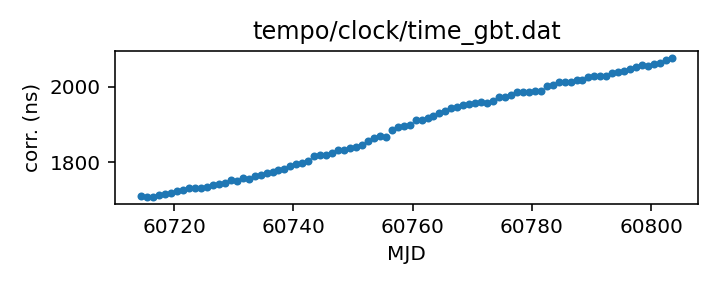
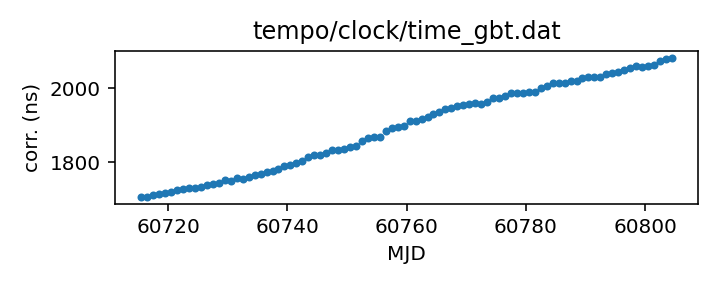
Routine gh-pages update from Github action Sat May 10 20:38:20 UTC 2025

diff --git a/status.md b/status.md
@@ -13,18 +13,18 @@ name of each clock file links to a page with more details.
 
 | Name | File | Corrections start | Corrections end | Last check date | Last check result 
 |:--- |:--- | --- | --- | --- |:--- 
-| [GPS to UTC](T2runtime/clock/gps2utc.clk.html) | `T2runtime/clock/gps2utc.clk` | 1993-01-01 MJD 48988.0 | 2025-03-30 MJD 60764.0 | 2025-05-09 | Unchanged 
-| [GPS to UTC (Combined Clock)](T2runtime/clock/gps2utc_cc.clk.html) | `T2runtime/clock/gps2utc_cc.clk` | 1993-01-01 MJD 48988.0 | 2025-03-30 MJD 60764.0 | 2025-05-09 | Unchanged 
-| [GPS to UTC (Corrected)](T2runtime/clock/gps2utc_c0p.clk.html) | `T2runtime/clock/gps2utc_c0p.clk` | 2010-12-29 MJD 55559.0 | 2025-03-30 MJD 60764.0 | 2025-05-09 | Unchanged 
-| [GBT](tempo/clock/time_gbt.dat.html) | `tempo/clock/time_gbt.dat` | 2000-12-31 MJD 51909.5 | 2025-05-08 MJD 60803.5 | 2025-05-09 | Updated 
-| [GBT (TEMPO2 converted from TEMPO)](T2runtime/clock/gbt2gps.clk.html) | `T2runtime/clock/gbt2gps.clk` | 2000-12-31 MJD 51909.5 | 2024-05-18 MJD 60448.5 | 2025-05-09 | **Validation failed** 
+| [GPS to UTC](T2runtime/clock/gps2utc.clk.html) | `T2runtime/clock/gps2utc.clk` | 1993-01-01 MJD 48988.0 | 2025-03-30 MJD 60764.0 | 2025-05-10 | Unchanged 
+| [GPS to UTC (Combined Clock)](T2runtime/clock/gps2utc_cc.clk.html) | `T2runtime/clock/gps2utc_cc.clk` | 1993-01-01 MJD 48988.0 | 2025-03-30 MJD 60764.0 | 2025-05-10 | Unchanged 
+| [GPS to UTC (Corrected)](T2runtime/clock/gps2utc_c0p.clk.html) | `T2runtime/clock/gps2utc_c0p.clk` | 2010-12-29 MJD 55559.0 | 2025-03-30 MJD 60764.0 | 2025-05-10 | Unchanged 
+| [GBT](tempo/clock/time_gbt.dat.html) | `tempo/clock/time_gbt.dat` | 2000-12-31 MJD 51909.5 | 2025-05-09 MJD 60804.5 | 2025-05-10 | Updated 
+| [GBT (TEMPO2 converted from TEMPO)](T2runtime/clock/gbt2gps.clk.html) | `T2runtime/clock/gbt2gps.clk` | 2000-12-31 MJD 51909.5 | 2024-05-18 MJD 60448.5 | 2025-05-10 | **Validation failed** 
 | [Jodrell Bank](T2runtime/clock/jb2gps.clk.html) | `T2runtime/clock/jb2gps.clk` | 2006-10-13 MJD 54021.4 | 2024-11-07 MJD 60621.0 | 2025-05-05 | Unchanged 
 | [Jodrell Bank Roach](T2runtime/clock/jbroach2jb.clk.html) | `T2runtime/clock/jbroach2jb.clk` | 2006-10-13 MJD 54021.4 | 2018-03-20 MJD 58197.6 | 2025-05-05 | Unchanged 
 | [Jodrell Bank DFB](T2runtime/clock/jbdfb2jb.clk.html) | `T2runtime/clock/jbdfb2jb.clk` | 2006-10-13 MJD 54021.4 | 2021-02-22 MJD 59268.0 | 2025-05-05 | Unchanged 
 | [Meerkat (observatory)](T2runtime/clock/mk2utc_observatory.clk.html) | `T2runtime/clock/mk2utc_observatory.clk` | 2019-01-01 MJD 58484.0 | 2025-03-27 MJD 60762.0 | 2025-05-05 | Updated 
-| [Leap seconds](tempo/clock/leap.sec.html) | `tempo/clock/leap.sec` | 1972-07-01 MJD 41499.0 | 2017-01-01 MJD 57754.0 | 2025-05-09 | Unchanged 
-| [UT1 table](tempo/clock/ut1.dat.html) | `tempo/clock/ut1.dat` | 1973-01-02 MJD 41684.0 | 2026-05-16 MJD 61176.0 | 2025-05-09 | Unchanged 
-| [UT1 table](T2runtime/clock/ut1.dat.html) | `T2runtime/clock/ut1.dat` | 1973-01-02 MJD 41684.0 | 2026-05-16 MJD 61176.0 | 2025-05-09 | Unchanged 
+| [Leap seconds](tempo/clock/leap.sec.html) | `tempo/clock/leap.sec` | 1972-07-01 MJD 41499.0 | 2017-01-01 MJD 57754.0 | 2025-05-10 | Unchanged 
+| [UT1 table](tempo/clock/ut1.dat.html) | `tempo/clock/ut1.dat` | 1973-01-02 MJD 41684.0 | 2026-05-16 MJD 61176.0 | 2025-05-10 | Unchanged 
+| [UT1 table](T2runtime/clock/ut1.dat.html) | `T2runtime/clock/ut1.dat` | 1973-01-02 MJD 41684.0 | 2026-05-16 MJD 61176.0 | 2025-05-10 | Unchanged 
 
 
 

diff --git a/T2runtime/clock/gbt2gps.clk.md b/T2runtime/clock/gbt2gps.clk.md
@@ -25,12 +25,11 @@ If questions arise about the conversion, contact Anne Archibald
 | Clock file start | 2000-12-31 MJD 51909.5 |
 | Clock file end | 2024-05-18 MJD 60448.5 |
 | Update interval (days) | 1 |
-| Last update attempt | 2025-05-09 |
+| Last update attempt | 2025-05-10 |
 | Last update result | Validation failed |
 
 Log entries from the last few update attempts:
 ```
-2025-05-05 14:42:53.005 - Validation failed: New version of T2runtime/clock/gbt2gps.clk clock corrections differ from old version where they overlap in 11 places
 2025-05-05 18:22:59.479 - Validation failed: New version of T2runtime/clock/gbt2gps.clk clock corrections differ from old version where they overlap in 11 places
 2025-05-05 18:23:23.183 - Validation failed: New version of T2runtime/clock/gbt2gps.clk clock corrections differ from old version where they overlap in 11 places
 2025-05-05 18:37:58.969 - Validation failed: New version of T2runtime/clock/gbt2gps.clk clock corrections differ from old version where they overlap in 11 places
@@ -40,6 +39,7 @@ Log entries from the last few update attempts:
 2025-05-07 20:42:58.428 - Validation failed: New version of T2runtime/clock/gbt2gps.clk clock corrections differ from old version where they overlap in 11 places
 2025-05-08 20:42:41.728 - Validation failed: New version of T2runtime/clock/gbt2gps.clk clock corrections differ from old version where they overlap in 11 places
 2025-05-09 20:41:35.620 - Validation failed: New version of T2runtime/clock/gbt2gps.clk clock corrections differ from old version where they overlap in 11 places
+2025-05-10 20:37:57.337 - Validation failed: New version of T2runtime/clock/gbt2gps.clk clock corrections differ from old version where they overlap in 11 places
 ```
 [Full log](https://raw.githubusercontent.com/ipta/pulsar-clock-corrections/main/log/T2runtime/clock/gbt2gps.clk.log)
 

diff --git a/tempo/clock/time_gbt.dat.md b/tempo/clock/time_gbt.dat.md
@@ -36,14 +36,13 @@ If questions arise, contact Ryan S. Lynch <rlynch@nrao.edu>.
 | Format | tempo |
 | Bogus last correction | False |
 | Clock file start | 2000-12-31 MJD 51909.5 |
-| Clock file end | 2025-05-08 MJD 60803.5 |
+| Clock file end | 2025-05-09 MJD 60804.5 |
 | Update interval (days) | 1 |
-| Last update attempt | 2025-05-09 |
+| Last update attempt | 2025-05-10 |
 | Last update result | Updated |
 
 Log entries from the last few update attempts:
 ```
-2025-02-09 20:33:00.330 - Updated
 2025-02-10 20:36:31.721 - Updated
 2025-02-11 20:36:33.614 - Updated
 2025-02-12 20:36:25.432 - Updated
@@ -53,6 +52,7 @@ Log entries from the last few update attempts:
 2025-05-07 20:42:58.374 - Updated
 2025-05-08 20:42:41.675 - Updated
 2025-05-09 20:41:35.566 - Updated
+2025-05-10 20:37:57.284 - Updated
 ```
 [Full log](https://raw.githubusercontent.com/ipta/pulsar-clock-corrections/main/log/tempo/clock/time_gbt.dat.log)
 

diff --git a/T2runtime/clock/gps2utc_c0p.clk.md b/T2runtime/clock/gps2utc_c0p.clk.md
@@ -30,12 +30,11 @@ about the BIPM's published corrections, contact <tai@bipm.org>.
 | Clock file start | 2010-12-29 MJD 55559.0 |
 | Clock file end | 2025-03-30 MJD 60764.0 |
 | Update interval (days) | 1 |
-| Last update attempt | 2025-05-09 |
+| Last update attempt | 2025-05-10 |
 | Last update result | Unchanged |
 
 Log entries from the last few update attempts:
 ```
-2025-02-09 20:33:00.115 - Unchanged
 2025-02-10 20:36:30.708 - Unchanged
 2025-02-11 20:36:32.738 - Unchanged
 2025-02-12 20:36:24.907 - Updated
@@ -45,6 +44,7 @@ Log entries from the last few update attempts:
 2025-05-07 20:42:57.548 - Unchanged
 2025-05-08 20:42:41.267 - Unchanged
 2025-05-09 20:41:35.212 - Unchanged
+2025-05-10 20:37:53.239 - Unchanged
 ```
 [Full log](https://raw.githubusercontent.com/ipta/pulsar-clock-corrections/main/log/T2runtime/clock/gps2utc_c0p.clk.log)
 

diff --git a/T2runtime/clock/gps2utc_cc.clk.md b/T2runtime/clock/gps2utc_cc.clk.md
@@ -29,12 +29,11 @@ about the BIPM's published corrections, contact <tai@bipm.org>.
 | Clock file start | 1993-01-01 MJD 48988.0 |
 | Clock file end | 2025-03-30 MJD 60764.0 |
 | Update interval (days) | 1 |
-| Last update attempt | 2025-05-09 |
+| Last update attempt | 2025-05-10 |
 | Last update result | Unchanged |
 
 Log entries from the last few update attempts:
 ```
-2025-02-09 20:33:00.108 - Unchanged
 2025-02-10 20:36:30.701 - Unchanged
 2025-02-11 20:36:32.729 - Unchanged
 2025-02-12 20:36:24.883 - Updated
@@ -44,6 +43,7 @@ Log entries from the last few update attempts:
 2025-05-07 20:42:57.540 - Unchanged
 2025-05-08 20:42:41.259 - Unchanged
 2025-05-09 20:41:35.204 - Unchanged
+2025-05-10 20:37:53.231 - Unchanged
 ```
 [Full log](https://raw.githubusercontent.com/ipta/pulsar-clock-corrections/main/log/T2runtime/clock/gps2utc_cc.clk.log)
 

diff --git a/T2runtime/clock/gps2utc.clk.md b/T2runtime/clock/gps2utc.clk.md
@@ -32,12 +32,11 @@ about the BIPM's published corrections, contact <tai@bipm.org>.
 | Clock file start | 1993-01-01 MJD 48988.0 |
 | Clock file end | 2025-03-30 MJD 60764.0 |
 | Update interval (days) | 1 |
-| Last update attempt | 2025-05-09 |
+| Last update attempt | 2025-05-10 |
 | Last update result | Unchanged |
 
 Log entries from the last few update attempts:
 ```
-2025-02-11 20:36:32.705 - Unchanged
 2025-02-12 20:36:24.825 - Updated
 2025-02-13 20:35:52.599 - Unchanged
 2025-05-05 14:30:52.125 - Updated
@@ -47,6 +46,7 @@ Log entries from the last few update attempts:
 2025-05-07 20:42:57.518 - Unchanged
 2025-05-08 20:42:41.237 - Unchanged
 2025-05-09 20:41:35.182 - Unchanged
+2025-05-10 20:37:53.208 - Unchanged
 ```
 [Full log](https://raw.githubusercontent.com/ipta/pulsar-clock-corrections/main/log/T2runtime/clock/gps2utc.clk.log)
 

diff --git a/T2runtime/clock/ut1.dat.md b/T2runtime/clock/ut1.dat.md
@@ -30,12 +30,11 @@ If there are any questions, contact Anne Archibald
 | File start | 1973-01-02 MJD 41684.0 |
 | File end | 2026-05-16 MJD 61176.0 |
 | Update interval (days) | 0 |
-| Last update attempt | 2025-05-09 |
+| Last update attempt | 2025-05-10 |
 | Last update result | Unchanged |
 
 Log entries from the last few update attempts:
 ```
-2025-05-05 14:42:53.308 - Unchanged
 2025-05-05 18:22:59.788 - Unchanged
 2025-05-05 18:23:23.483 - Unchanged
 2025-05-05 18:37:59.272 - Unchanged
@@ -45,5 +44,6 @@ Log entries from the last few update attempts:
 2025-05-07 20:43:11.839 - Unchanged
 2025-05-08 20:42:50.063 - Updated
 2025-05-09 20:41:45.355 - Unchanged
+2025-05-10 20:38:06.214 - Unchanged
 ```
 [Full log](https://raw.githubusercontent.com/ipta/pulsar-clock-corrections/main/log/T2runtime/clock/ut1.dat.log)

diff --git a/tempo/clock/leap.sec.md b/tempo/clock/leap.sec.md
@@ -21,12 +21,11 @@ If there are any questions, contact Anne Archibald
 | File start | 1972-07-01 MJD 41499.0 |
 | File end | 2017-01-01 MJD 57754.0 |
 | Update interval (days) | 0 |
-| Last update attempt | 2025-05-09 |
+| Last update attempt | 2025-05-10 |
 | Last update result | Unchanged |
 
 Log entries from the last few update attempts:
 ```
-2025-05-05 14:42:53.022 - Unchanged
 2025-05-05 18:22:59.495 - Unchanged
 2025-05-05 18:23:23.193 - Unchanged
 2025-05-05 18:37:58.983 - Unchanged
@@ -36,5 +35,6 @@ Log entries from the last few update attempts:
 2025-05-07 20:42:58.453 - Unchanged
 2025-05-08 20:42:41.754 - Unchanged
 2025-05-09 20:41:35.646 - Unchanged
+2025-05-10 20:37:57.363 - Unchanged
 ```
 [Full log](https://raw.githubusercontent.com/ipta/pulsar-clock-corrections/main/log/tempo/clock/leap.sec.log)

diff --git a/tempo/clock/ut1.dat.md b/tempo/clock/ut1.dat.md
@@ -30,12 +30,11 @@ If there are any questions, contact Anne Archibald
 | File start | 1973-01-02 MJD 41684.0 |
 | File end | 2026-05-16 MJD 61176.0 |
 | Update interval (days) | 0 |
-| Last update attempt | 2025-05-09 |
+| Last update attempt | 2025-05-10 |
 | Last update result | Unchanged |
 
 Log entries from the last few update attempts:
 ```
-2025-05-05 14:42:53.289 - Unchanged
 2025-05-05 18:22:59.769 - Unchanged
 2025-05-05 18:23:23.464 - Unchanged
 2025-05-05 18:37:59.253 - Unchanged
@@ -45,5 +44,6 @@ Log entries from the last few update attempts:
 2025-05-07 20:43:11.787 - Unchanged
 2025-05-08 20:42:50.013 - Updated
 2025-05-09 20:41:45.304 - Unchanged
+2025-05-10 20:38:06.165 - Unchanged
 ```
 [Full log](https://raw.githubusercontent.com/ipta/pulsar-clock-corrections/main/log/tempo/clock/ut1.dat.log)
